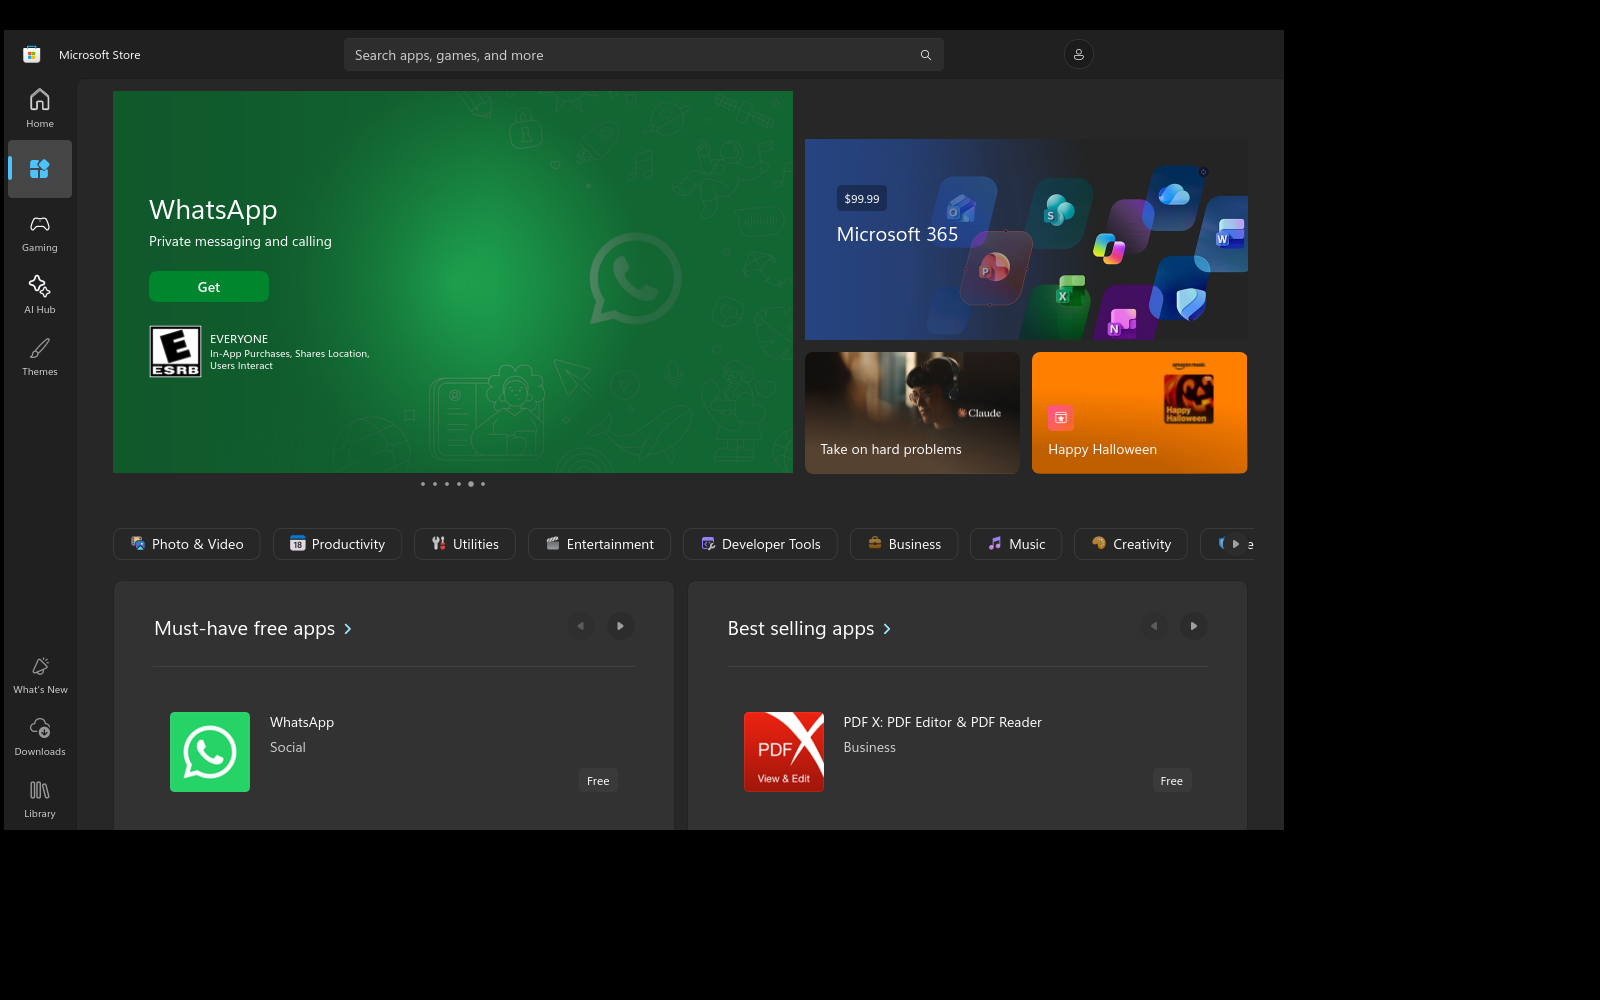
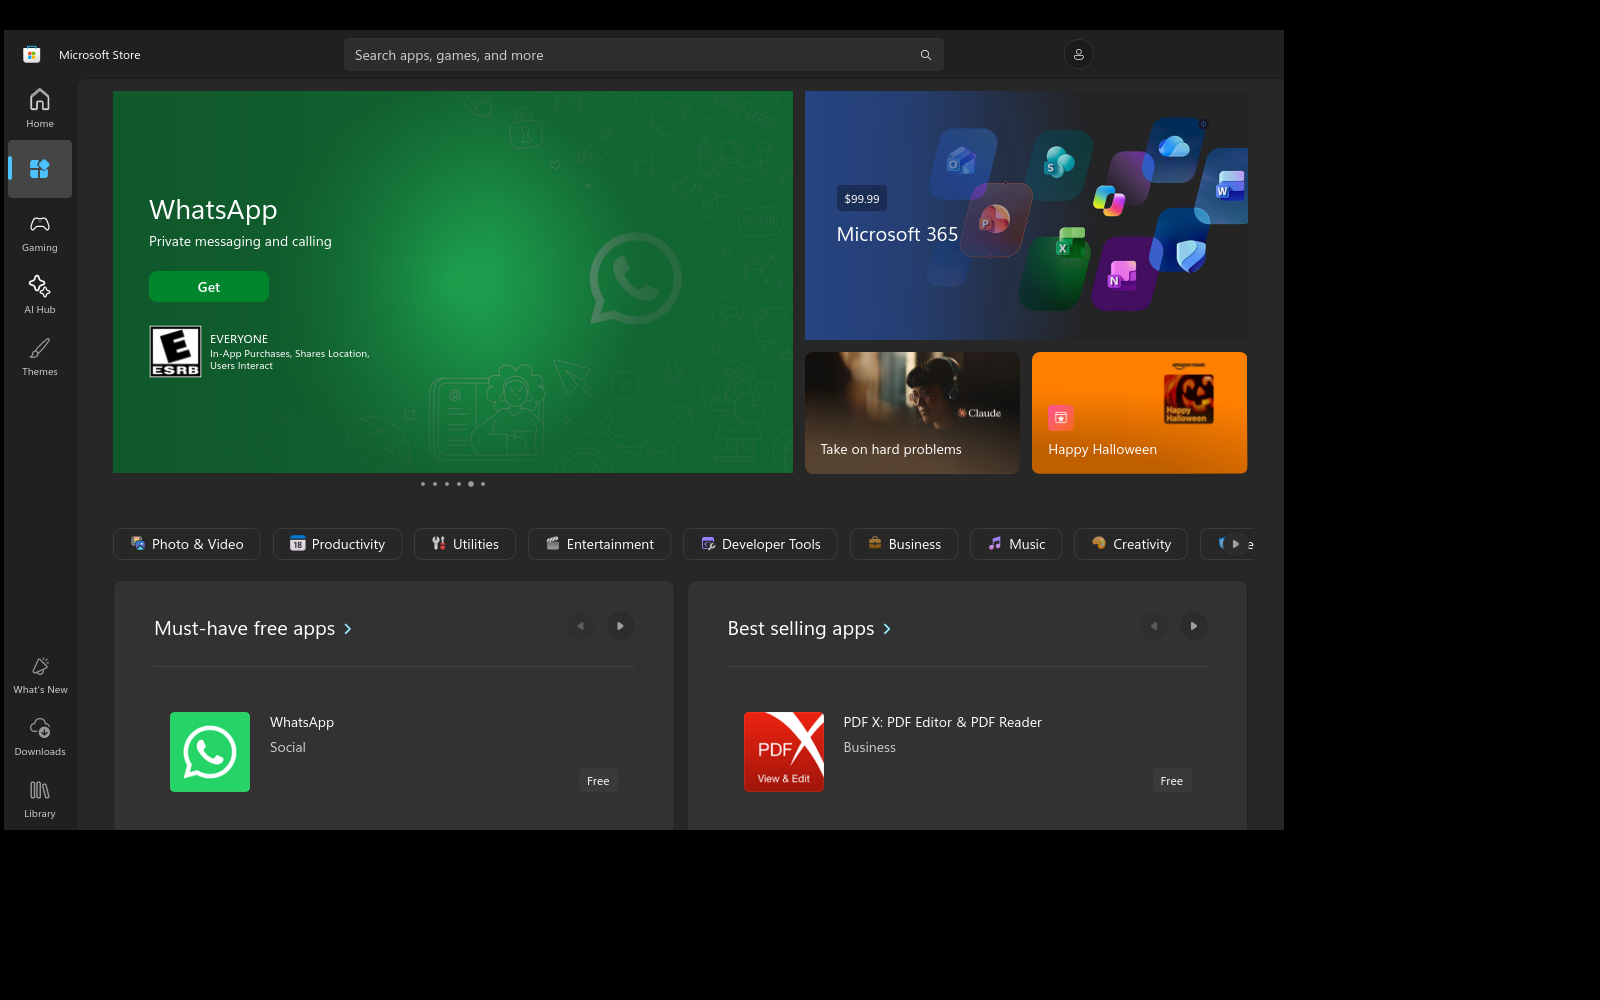
dcomp: The Microsoft Store's side cards draw from their top.
A CompositionVisualSurface took its source's first container for the
window's island and moved its content down by the title bar row.

Changed region(s): [[0.5, 0.093, 0.7812, 0.341]]

diff --git a/wine/dlls/dcomp/composition.c b/wine/dlls/dcomp/composition.c
@@ -270,6 +270,7 @@ static void present_dcomp_visuals( HDC hdc );
  * the window-sized visual they are hosted in (see branch_is_window_space_dcv). */
 static float xaml_content_dy;
 static struct visual *xaml_island_container;
+static const char no_island;  /* an xaml_island_container that is no visual: a subtree painted on its own */
 static struct dcomp_visual *xaml_content_branch, *paint_branch;
 static void paint_public_visual( HDC hdc, void *iface, float ox, float oy, float parent_width,
                                  float parent_height, float sx, float sy );
@@ -10832,6 +10833,27 @@ static HRESULT create_visual_surface( void **out )
     return S_OK;
 }
 /* paint the source subtree into the surface's cache; called inside a walk on its thread */
+/* Where paint_dcomp_visual puts a visual relative to the origin it is given: its offset, its transform and, while an
+ * expression is bound to its TransformMatrix, that matrix's translation instead of the static one's. A subtree
+ * painted on its own (a CompositionVisualSurface's source) starts at minus this. */
+static void dcv_own_translation( struct dcomp_visual *v, float *x, float *y )
+{
+    D2D_MATRIX_3X2_F em;
+
+    *x = v->offset_x + v->transform_x;
+    *y = v->offset_y + v->transform_y;
+    if (v->transform_expr && expr_evaluate_matrix( v->transform_expr, v->properties,
+                                                    v->manip && v->manip->has_matrix ? &v->manip->matrix : NULL, &em ))
+    {
+        *x += em._31;
+        *y += em._32;
+    }
+    else
+    {
+        *x += v->transform4.M41;
+        *y += v->transform4.M42;
+    }
+}
 static void visual_surface_render( struct visual_surface *impl )
 {
     struct dcomp_visual *dv = dcv_from_any( impl->source );
@@ -10897,11 +10919,17 @@ static void visual_surface_render( struct visual_surface *impl )
     paint_xf.quarter = 0; paint_xf.active = FALSE;
     paint_opacity = 1.0f;
     paint_content_sx = paint_content_sy = 1.0f;
-    xaml_island_container = NULL;
+    /* not the window's island: with none set, the first container in the source took the part, and its dcomp
+     * children were moved down by the title bar row (the Microsoft Store's side cards lost their top 48 px) */
+    xaml_island_container = (struct visual *)&no_island;
     paint_branch = NULL;
     EnterCriticalSection( &dcomp_visual_cs );
-    if (dv) paint_dcomp_visual( dc, dv, -(dv->offset_x + dv->transform_x + dv->transform4.M41) - impl->offset.X,
-                                -(dv->offset_y + dv->transform_y + dv->transform4.M42) - impl->offset.Y, 1.0f, 1.0f );
+    if (dv)
+    {
+        float tx, ty;
+        dcv_own_translation( dv, &tx, &ty );
+        paint_dcomp_visual( dc, dv, -tx - impl->offset.X, -ty - impl->offset.Y, 1.0f, 1.0f );
+    }
     else paint_public_visual( dc, &pv->interop_vtbl, -(pv->offset.X + pv->transform.M41) - impl->offset.X,
                               -(pv->offset.Y + pv->transform.M42) - impl->offset.Y, (float)w, (float)h, 1.0f, 1.0f );
     LeaveCriticalSection( &dcomp_visual_cs );

diff --git a/AGENTS.md b/AGENTS.md
@@ -1293,7 +1293,7 @@ the fully-qualified name. `--grep` first, always.
 | Xbox app (GamingApp) | Staged as `xbox`. On the **builtin** `windows.web` (no native Windows.Web.dll) it reaches its own home screen after **Browse app** on the sign-in gate (`docs/screenshots/xbox-home-builtin-windows-web.png`). Gaming Services and Windows.System.User are stand-ins. Still open: the nav icons for My Library, Cloud Gaming and Store, the faded banners, sign-in, and the Store hero video. Findings-M4 2026-10-14 (night). **Sign in** (10-15): `dlls/winexboxauth` (C++ `shims/xboxauth` until 10-21; traces `WINEDEBUG=+xboxauth`) stands in for `XboxAuthManager` with a Microsoft account device-code sign-in in the user's browser (`microsoft.com/link?otc=<code>`) and real Xbox Live user/XSTS tokens; verified up to the device code and the browser launch, the account step needs a human. Refresh token in `%LOCALAPPDATA%\wineuwp\xboxauth.bin`. Findings-M4 2026-10-15. **Requests are signed** (10-15, ported from xal-rs): a per-prefix P-256 proof key, a real device token, SISU authorize, device/title-bound XSTS and a `Signature` on every token request with a policy; the signing is proven against `device.auth.xboxlive.com` (signed 200, unsigned 400, one bit flipped 403). SISU with a real account works (10-15, Android device token). **Store account and Gaming Services** (10-15): `dlls/winexboxauth` also serves `WebAuthenticationCoreManager` and `StoreConfiguration` (the Store account is the same Microsoft account; its WebAccount.Id is the PUID), so Settings > Account has no mismatch; `dlls/winegameplatform` (C++ `shims/gameplatform` until 10-21; traces with `WINEDEBUG=+gameplatform`) covers every Gaming Services client class (traced, table from `gen-gameplatform.py`) with install locations, update settings, `Package.Create`, `Store.QueryProductDetails` and content access, so Install Options loads and game pages show Get/Buy. Findings-M4 2026-10-15 (Store account). **Friends list and bright game pages** (10-15, dcomp facade expressions, dwrite). **Installs and plays a game** (10-15 night): Get opens the real Store purchase dialog through a WebView2 runtime from the ISO (`dlls/webview2host`, C++ `shims/webview2` until 10-21, hosts it windowed in a popup; traces `WINEDEBUG=+webview2`; shown on screen and closable on 10-21, `docs/screenshots/xbox-purchase-dialog-on-screen.png` - an earlier "black on screen" was `xwd -root` misreading the popup, see the capture trap below), Install downloads through FE3 and `install-app.py` into `uwp-bin/xbox-games/stage`, the page shows Downloading then Play, and Play starts Microsoft Solitaire Collection 4.27 (`docs/screenshots/xbox-install-downloading.png`, `xbox-install-ready-to-play.png`, `xbox-play-launches-solitaire.png`). Run the Xbox app with plain `err+all` when testing Play: the game inherits `WINEDEBUG`, and `trace+tracelogging` makes Solitaire fault. Open: library box art. Pause/Resume retains the queue row, displays Download paused and offers Resume; three virtual-desktop UI cycles preserve offsets with stable installation/package identities. Queued Package.QueryDetails must return unregistered, not fully streamed metadata: GP_E_NO_SERVICE there aborts the native paused-state update (Findings-M4 2026-10-16, paused-row investigation). `install-app.py` now locks staging per package and cleans only its own scratch entry, preventing failed installs from deleting another install's work. A synthetic stale-file repro and virtual Halo install passed the former failure point; the queue reached Download paused and Resume worked at 31% (`docs/screenshots/xbox-install-staging-paused.png`; Findings-M4 2026-10-16, install error). The desktop app was relaunched with the rebuilt shim on 10-16. Premium, Game Pass and direct Win2D geometry marks now share bounded supersampling; scaled composition surfaces use source-footprint filtering. Verified on virtual desktops with fill/stroke, clip/transform/DPI probes; the tested D2D/DComp DLLs are in the standard Wine build. Desktop Home was visually confirmed after relaunch with these DLLs (Findings-M4 2026-10-16, Game Pass). **Manage > Add-ons Apply changes** (10-16): fixed the installed-drive lookup. Package.QueryInstallPath returns Z:, but storage enumeration previously exposed only C:, so the React Native Apply callback returned at its installed-drive Content guard. Storage now exposes the actual host data drive and filters content by device. Two virtual UI runs select Campaign, close Manage on Apply and queue PackageRequest.ConfigureFeatures(CampaignS1); this uses StartItemInstall, not PackageUpdate.StartUpdateAsync. Tested at 0 B, paused and canceled rather than downloading the whole payload (`docs/screenshots/xbox-campaign-apply-queued-paused.png`). General's update-priority control also loads and persists through Customization.QueryGameProps/SetGameProps (`docs/screenshots/xbox-game-priority-persisted.png`). **Cancellation** (10-16): cancel now signals the real host Python PID and waits for the shell EXIT record; terminating only the Wine launcher had left a paused Python child alive. The virtual UI cancel test emptied the queue, logged EXIT 143 and confirmed that exact Python PID was gone (`docs/screenshots/xbox-campaign-change-canceled.png`). The host installer reports its PID only for installs; --info remains JSON. Findings-M4 2026-10-16 (Apply/host cancellation). **MSIXVC (GDK) packages**: the package list, CDN download, content keys (our own Windows device licence, `dlls/winexboxauth/windevice.c`) and our GDK runtime all work: see the Bad Magpie and Halo rows. Xodus was only a protocol reference and is no longer kept here; the Xodus Nexus launcher was tried on 10-19 and dropped (it plays only from its own streaming container). Findings-M4 2026-10-15 (night) |
 | Halo Infinite (GDK, Xbox app install) | **Campaign plays without HD1** (10-18, `docs/screenshots/halo-campaign-in-game.png`): launch with `UWP_STAGE=254428597cfe2 WINE_BUILD=uwp-bin/wine-build-wow64 WINE_HACK_NATIVE_SYSCALLS=1` on `uwp-bin/prefix-pause-ui30`, title -> Campaign -> New Game -> map. **Multiplayer matchmakes and plays online** (`docs/screenshots/halo-multiplayer-in-match.png`). Sign-in uses the Store account; the Store-user mismatch notice at start-up is still open. Findings-M4 2026-10-18. **From a fresh prefix** (10-19, `docs/screenshots/halo-fresh-prefix-main-menu.png`): `new-prefix.sh`, Xbox app install, `install-d3d-runtime.sh`, then Play (`wineuwp-launch.exe`) reaches the online main menu with no hand-made files |\n| Bad Magpie Demo (GDK, Game Pass) | **Installs from the Xbox app and runs, in game** (10-15, `docs/screenshots/badmagpie-gdk-running.png`): the first GDK title on Linux here. The `.msixvc` comes from `packagespc.xboxlive.com` (signed XBL request), its content key from our own Windows device licence and `licensing.mp.microsoft.com` (`dlls/winexboxauth/windevice.c`), and the installer (`dlls/appxinstall`, called by `dlls/winegameplatform`; formerly `install-app.py`) decrypts the XVD (XTS per 4096-byte page, data unit from the L0 hash entry) and lays the files out from `SegmentMetadata.bin`. Reinstalled through the C installer on 10-19 (`docs/screenshots/badmagpie-c-installer-running.png`). EAppx (Resident Evil 7) uses the same licence path and the EXBH/EXPH reader; its install is not yet run end to end. **The device registration takes a slot in the account's device group (it was full once); one per prefix, kept in `xboxauth.bin`** |
 | Packaging | **One AppImage**, in the separate `../shapr3d-linux` repo since 10-11 (github.com/designgears/shapr3d-linux; its README; the runtime it carries is `packaging/` here). Bottles was dropped on 10-11. One freedesktop SDK build (flatpak-builder) makes both the AppImage and a Flatpak bundle (`io.github.designgears.Shapr3DLinux`), both attached to each release; glibc 2.38 floor. The installer is Rust + Slint, styled after Shapr3D, with no secondary text (`../shapr3d-linux/docs/screenshots/installer/`); the AppImage was re-run on 10-11 from an empty data directory with the real ISO download and the real Shapr3D bundle, to the sign-in screen on `:0`. `appimage/smoke.sh` sets an AppImage up from an empty data directory on its own Xvfb and requires Shapr3D's first screen (passed on 10-11 in 27 s). Opening the AppImage (or `wine-uwp` with no command) shows the installer, which once set up is the launcher: version, Launch and Update... (pick a newer package; `wine-uwp setup PACKAGE` on an installed setup goes straight there). The package may be the vendor's `.appinstaller` (Shapr3D's download page hands one out): only its main bundle is used, read from the server with range requests (1.8 GB streamed in ~50 s, no temporary file), never its `<Dependencies>`; frameworks always come from the ISO, falling back to an older version than the package asks for. Its URI is kept in `stage/APP/.wine-uwp-appinstaller`, and the launcher page offers `Update to X` when it serves a newer version. **Shapr3D 26.180 needs VCLibs 14.0.33728 (STL 14.40, constexpr `std::mutex`); the ISO's 14.0.30704 `msvcp140_app` NULL-derefs in `_Mtx_lock`.** Our Wine builds `msvcp140_app` from msvcp140's sources and `launch-defaults.env` sets `msvcp140_app=b` (Calculator AE 0 and `kb` identical on it). An update unpacks to `stage/APP.new` and swaps it in at the end, refuses while the app's run lock is held, and keeps sign-in and projects (they live in the prefix under the package family name). The menu entry (`run APP`) is written on install and refreshed each time the installer opens. A plain `wine wineuwp-launch.exe` starts an installed app with no `run.sh`. Released through `release.sh` up to 0.0.3-beta (10-12), which the user checked on `:0`: launch, browser sign-in, update. **An AppImage started from inside another (the launcher's Launch is `$APPIMAGE run`) must not re-save the host environment**: in 0.0.2 it saved the launcher's bundled paths, xdg-open then got a dead mount's libraries, and the app ran on the system Wine and outlived its wineserver as a windowless orphan holding the run lock. `AppRun` keeps the first `WINE_UWP_HOST_*`. `wine-uwp stop` closes a running app through `logs/.APP.stop` |
-| Microsoft Store | Staged as `store` (prefix `uwp-bin/prefix-store`, build `uwp-bin/wine-build-wow64`, the Media Player switches). **Updates itself in-app**: Library > Get updates goes through `shims/appinstallmanager` (catalogue + FE3 + `appxinstall.dll` into its own stage; 22401 -> 22609 again on 10-20, `docs/screenshots/msstore-c-installer-updated.png`) and installed 22608.1401.7.0 over the ISO's 22401 (old stage kept as `stage/store.pre-update-22401`). 22608's Home page paints real content (`docs/screenshots/msstore-22608-home.png`); start-up takes ~2-3 minutes; Apps, Gaming and AI Hub load since 10-25 (Wine's xmllite read UTF-16 input twice from the second chunk on, and XAML parses `XamlReader.Load` text as UTF-16: `docs/screenshots/msstore-22608-apps-page.png`); their hero carousels draw (InteractionTracker property sets in expressions, key-frame animations' own Properties). Their right-hand card column sits 48 px low, and Gaming's lower panel stays a skeleton. Findings-M4 2026-10-19 **Home (10-25)**: nav rail Lottie icons, app tile icons, hero cards and hero picture drawn (CompositionVisualSurface, effect brushes, clip edge expressions, step easing, simple geometries, path animations in dcomp). Blank starts (~1 in 5) fixed in wineuwp (`in_app_code`). Home now matches Windows (`docs/screenshots/msstore-22608-home-complete.png`). Test with `uwp-bin/wine-build-store` until merged into the shared builds. Findings-M4 2026-10-25 |
+| Microsoft Store | Staged as `store` (prefix `uwp-bin/prefix-store`, build `uwp-bin/wine-build-wow64`, the Media Player switches). **Updates itself in-app**: Library > Get updates goes through `shims/appinstallmanager` (catalogue + FE3 + `appxinstall.dll` into its own stage; 22401 -> 22609 again on 10-20, `docs/screenshots/msstore-c-installer-updated.png`) and installed 22608.1401.7.0 over the ISO's 22401 (old stage kept as `stage/store.pre-update-22401`). 22608's Home page paints real content (`docs/screenshots/msstore-22608-home.png`); start-up takes ~2-3 minutes; Apps, Gaming and AI Hub load since 10-25 (Wine's xmllite read UTF-16 input twice from the second chunk on, and XAML parses `XamlReader.Load` text as UTF-16: `docs/screenshots/msstore-22608-apps-page.png`); their hero carousels draw (InteractionTracker property sets in expressions, key-frame animations' own Properties). Gaming's lower panel stays a skeleton, and AI Hub's lower banner is layered wrong. Findings-M4 2026-10-19 **Home (10-25)**: nav rail Lottie icons, app tile icons, hero cards and hero picture drawn (CompositionVisualSurface, effect brushes, clip edge expressions, step easing, simple geometries, path animations in dcomp). Blank starts (~1 in 5) fixed in wineuwp (`in_app_code`). Home now matches Windows (`docs/screenshots/msstore-22608-home-complete.png`). Test with `uwp-bin/wine-build-store` until merged into the shared builds. Findings-M4 2026-10-25 |
 | Shapr3D | **Models, syncs and exports** (`docs/screenshots/shapr3d-extruded-body.png`): sketch -> extrude -> Visualization, toolbar and menus, cloud upload of revisions and thumbnails, **File > Export to > STL** and **Drawings -> Create Drawing -> Export drawing (PDF)** both write correct files (`docs/screenshots/shapr3d-drawing-pdf.png`). The file pickers (`dlls/windows.storage.pickers`) show Wine's common Open/Save/folder dialogs (starting in Documents, or the app's SuggestedStartLocation); `probe-pickers.exe` checks them without an app. For scripted runs, `WINE_UWP_PICKER_FILE` / `WINE_UWP_PICKER_SAVE_FILE` still bypass them, and `WINE_UWP_PICKER_NODIALOG=1` makes an unstaged pick report a cancel. On `:98` the dialog is its own top-level window ("Open" / "Save As"), captured with `xwd -id`. Type into it with plain `xdotool type` after a click, not `--window`. The colon needs `xdotool key colon`, and Ctrl+A does not select the combo box text. Signs in once (Log In -> `./browser-callback.sh shapr3d`, a human solves the reCAPTCHA, run with `WINE_UWP_LAUNCHER=log`) and stays signed in. Project thumbnails and material swatches show (`docs/screenshots/shapr3d-project-thumbnails.png`, `shapr3d-used-material-swatches.png`). The save dialog offers the app's `FileTypeChoices` (Screenshot -> Capture: JPEG, PNG; `docs/screenshots/shapr3d-capture-output.png`). **The prefix's `Documents`, `Desktop` and `Pictures` are symlinks to the user's real home folders**, which is where the dialogs start - save test output to `C:\users\Public\` instead. Share -> copy link puts the project URL on the clipboard (`docs/screenshots/shapr3d-share-copy-link.png`); the share-sheet button does nothing (there is no share host). Typed dimensions work while sketching (`docs/screenshots/shapr3d-dimension-entry.png`); drive them with `xdotool type --delay 250`, because at the default 12 ms the key after the one that opens the field is lost. Start -> Visualization -> import Drone passes **30/30** (`docs/screenshots/shapr3d-import-soak-30of30.png`); it was about 3 in 4 before 09-24. Leaving the editor no longer kills it: 30 leaves in 10 runs, against 6 deaths in 10 runs before (`docs/screenshots/shapr3d-home-after-leaving.png`). Extrude/offset drags on the drone at the user's 3440x1366 no longer starve the UI thread (it used 1.95 s of CPU in a 2 s drag, now ~0.3 s; the result lands ~0.3-0.8 s after release instead of 1-2 s); with continuous input the drone's preview refreshes every ~78 ms, bound by Parasolid (Wine ~11% of it), see Findings-M4 2026-09-25. Menus open with Windows' own animation now (key frames run live, with their easing, and the reveal clip slides with them): the first frame ~45 ms after the press, mostly out by ~60-90 ms, settled ~300 ms (`docs/screenshots/shapr3d-file-menu-reveal.png`). History chevrons turn > to v and back (`docs/screenshots/shapr3d-chevron-turn.png`). Wheel over a panel no longer reaches the viewport (it did ~1 in 15 at 175 Hz before 09-25's hit-test fix; 0 in 600 since). History moving after Edit... -> Cancel is the app re-creating its uncached page and scrolling the selected row into view (Findings-M4, 2026-09-26). The view cube popup lays its page out below its tabs from the first frame (`docs/screenshots/shapr3d-viewcube-open.png`). The viewport keeps moving while the editor is built after a project opens (worst gap ~60 ms, was 250-350) and runs at 166-176 frames a second on the user's own 175 Hz display, measured there (`docs/screenshots/viewport-after-open-round2.png`; the X server keeps up, `trace+x11perf`). Cloud sync no longer kills it: `CoWaitForMultipleObjects`, called by Windows.Web.Http, is implemented. Materials drag and drop onto the model with the dragged row following the pointer (`docs/screenshots/shapr3d-drag-visual.png`; `dlls/dataexchange/dragoperation.c`, an in-process drag loop), XAML keeps repainting afterwards, and the swatches no longer flicker grey. Flyouts, menus and dropdowns are windows of their own (painted by dcomp's `hwnd_target`s), by default since 09-28; `WINE_UWP_WINDOWED_POPUPS=0` turns that off. They used to cause a blank start-up about 1 time in 8, which was the missing CoreMessaging wake. The Share button keeps a 10 px margin from the window edge, lined up with the panels (`wineuwp` pushes the title bar insets; `docs/screenshots/shapr3d-share-inset.png`). Selecting a folder no longer draws the rebuilt toolbar at the window origin, and Settings sections cross-fade instead of overlapping (`docs/screenshots/shapr3d-settings-crossfade.png`). In-app tutorials play, and XAML's transport controls (pause, resume, +30 s, full screen) work; subtitles are not drawn yet (Findings-M4, 2026-10-19). |
 
 The three Media Player switches are opt-in only because the other apps have not been tested against

diff --git a/docs/Findings-M4.md b/docs/Findings-M4.md
@@ -13464,5 +13464,11 @@ hero on the left draws. Before, it was one flat colour on all three pages.
 Regression on `prefix-test` with `wine-build-store`: calc AE 3924.73, mp 236, sol 3/3 not reached (as on the control
 build).
 
-Still open: on Apps, Gaming and AI Hub the right-hand column of cards starts 48 px below the hero (Home lines them
-up), Gaming's lower panel, and AI Hub's lower banner.
+Still open: Gaming's lower panel, and AI Hub's lower banner.
+
+**The side cards' top 48 px** (Apps, Gaming, AI Hub: the large card began 48 px below the hero). The card is a
+CompositionVisualSurface (`visual surface ...: dcomp visual ... 443x249, 3 ops`), and inside it `+dcomptree` had the
+source's child at `0,48` with offset and transform 0. `visual_surface_render` cleared `xaml_island_container`, so the
+first container in the source took the island's part and its dcomp children were moved down by the title bar row
+(`xaml_content_dy`). A visual surface now renders with an island that is no visual. It also subtracts its source's
+expression-bound translation (`dcv_own_translation`), which did not matter here. Regression: calc AE 3924.73, mp 236.
